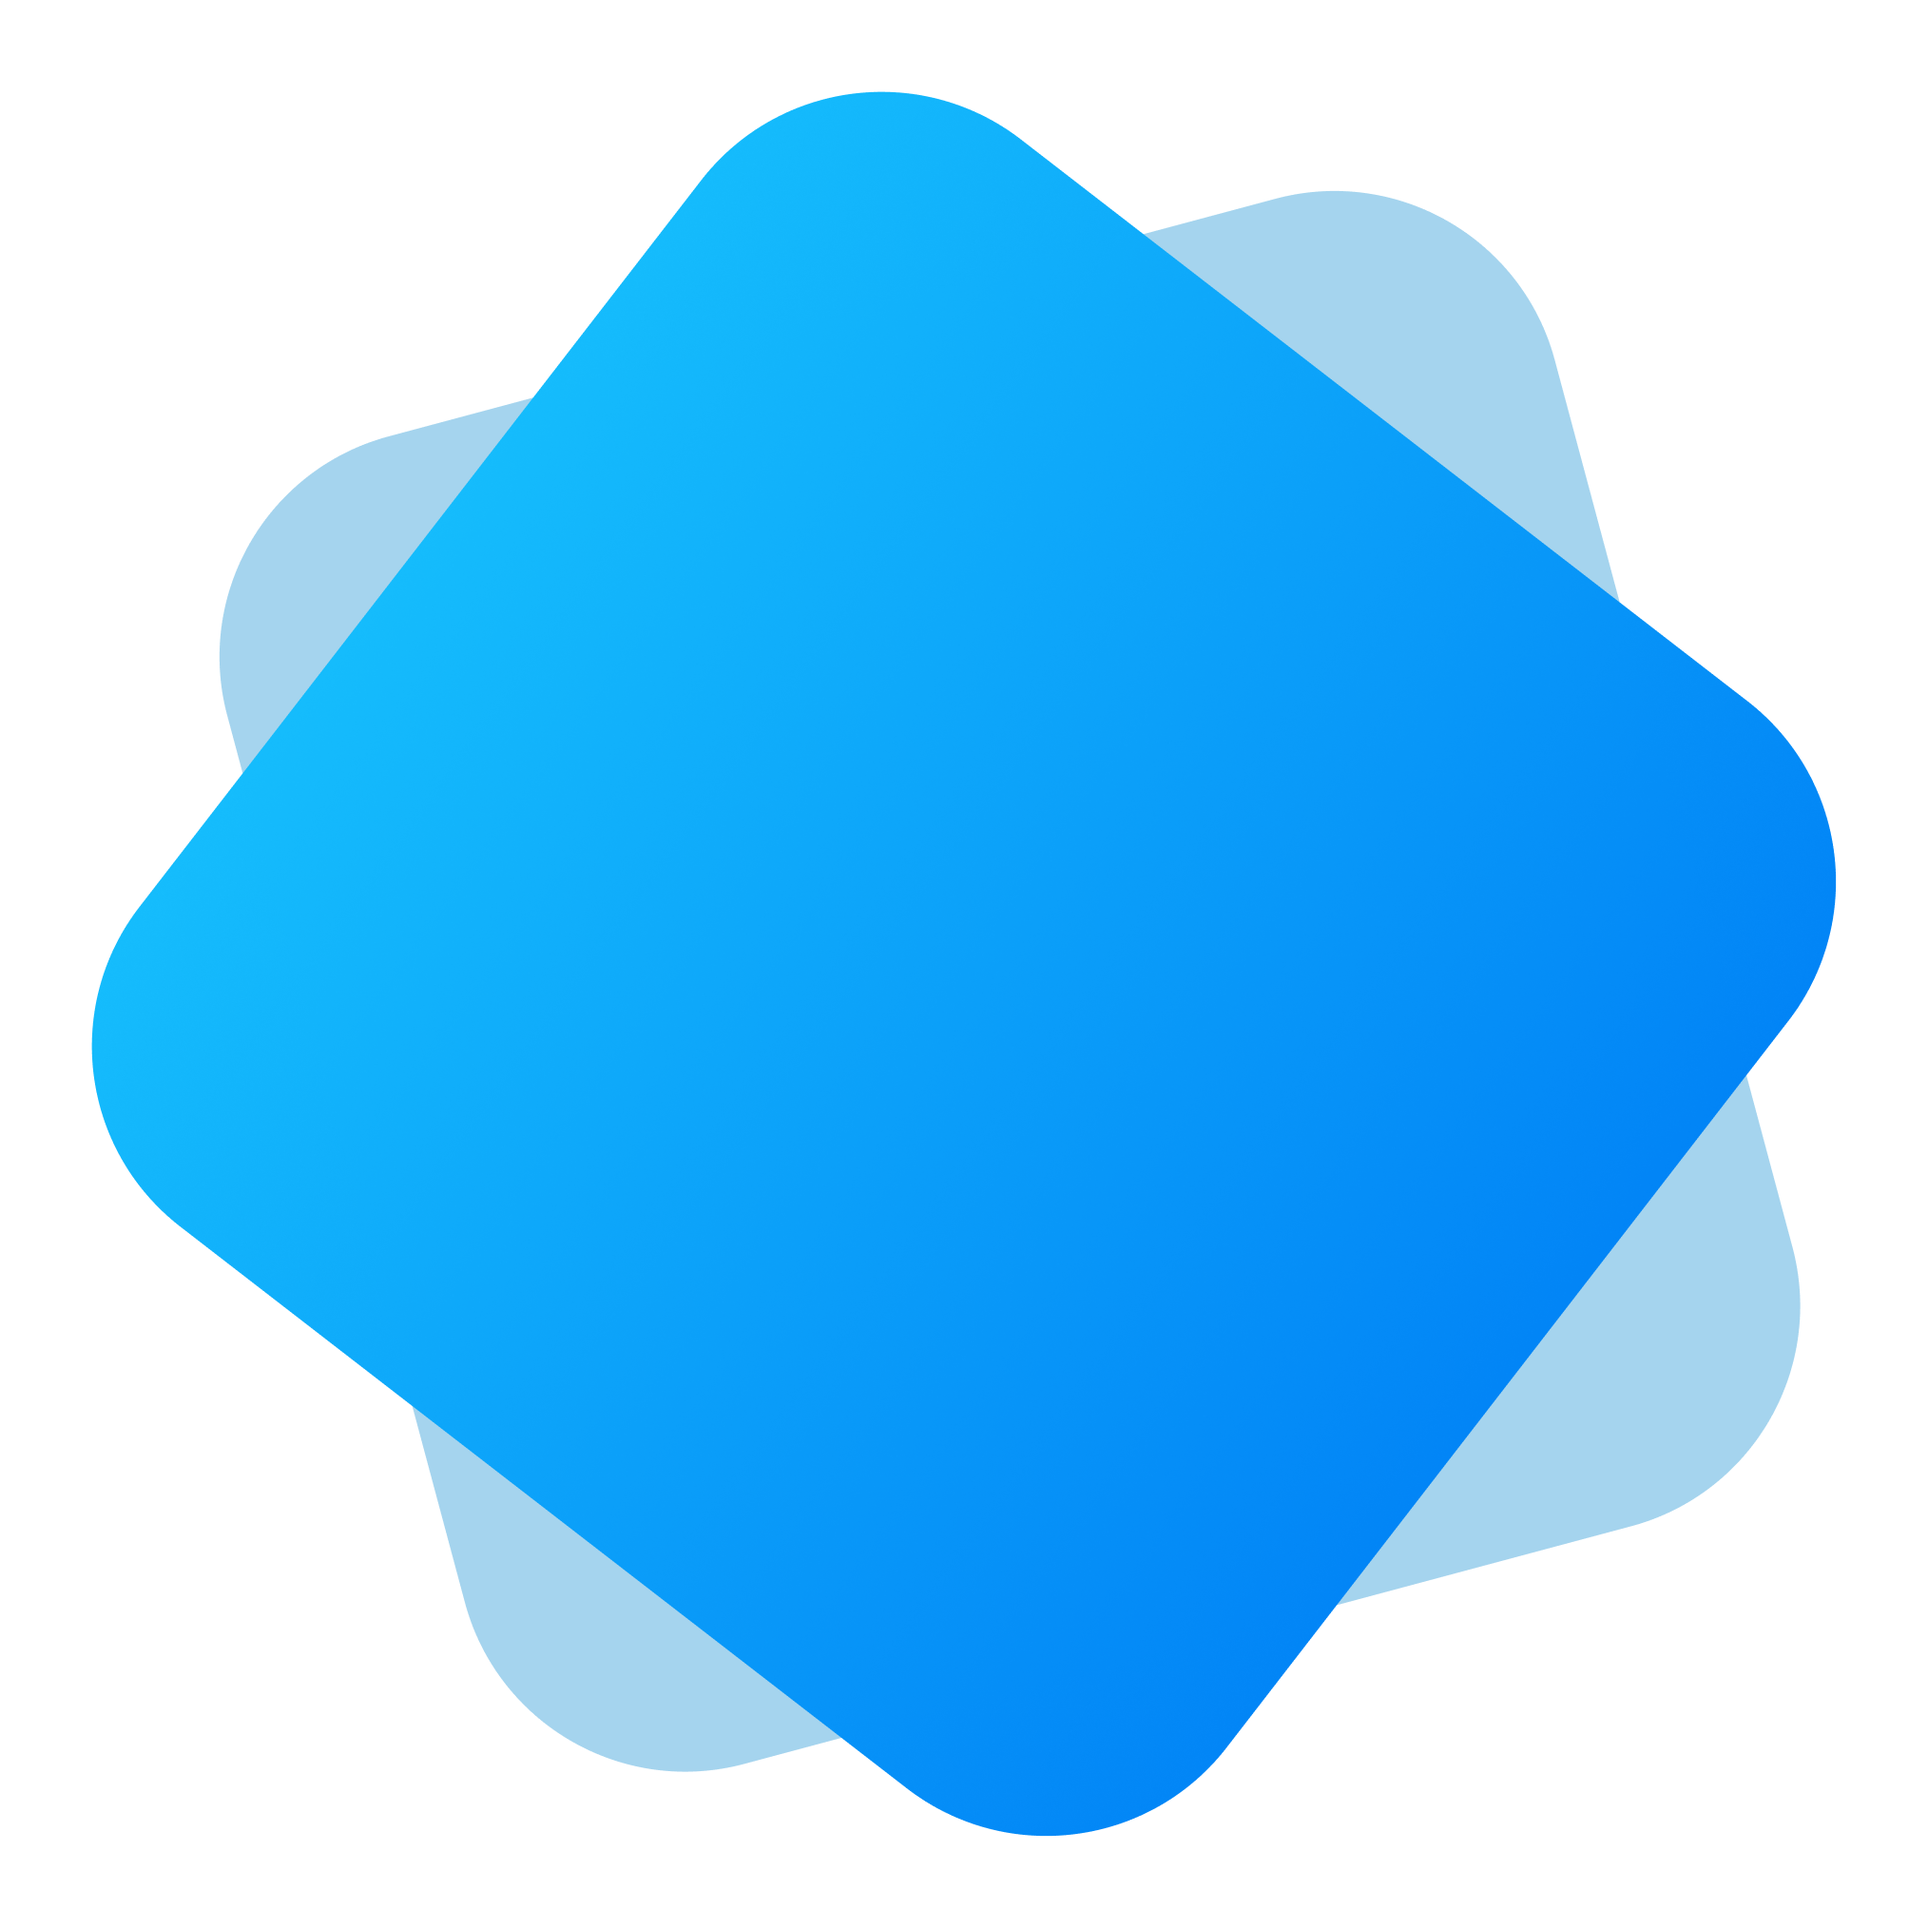
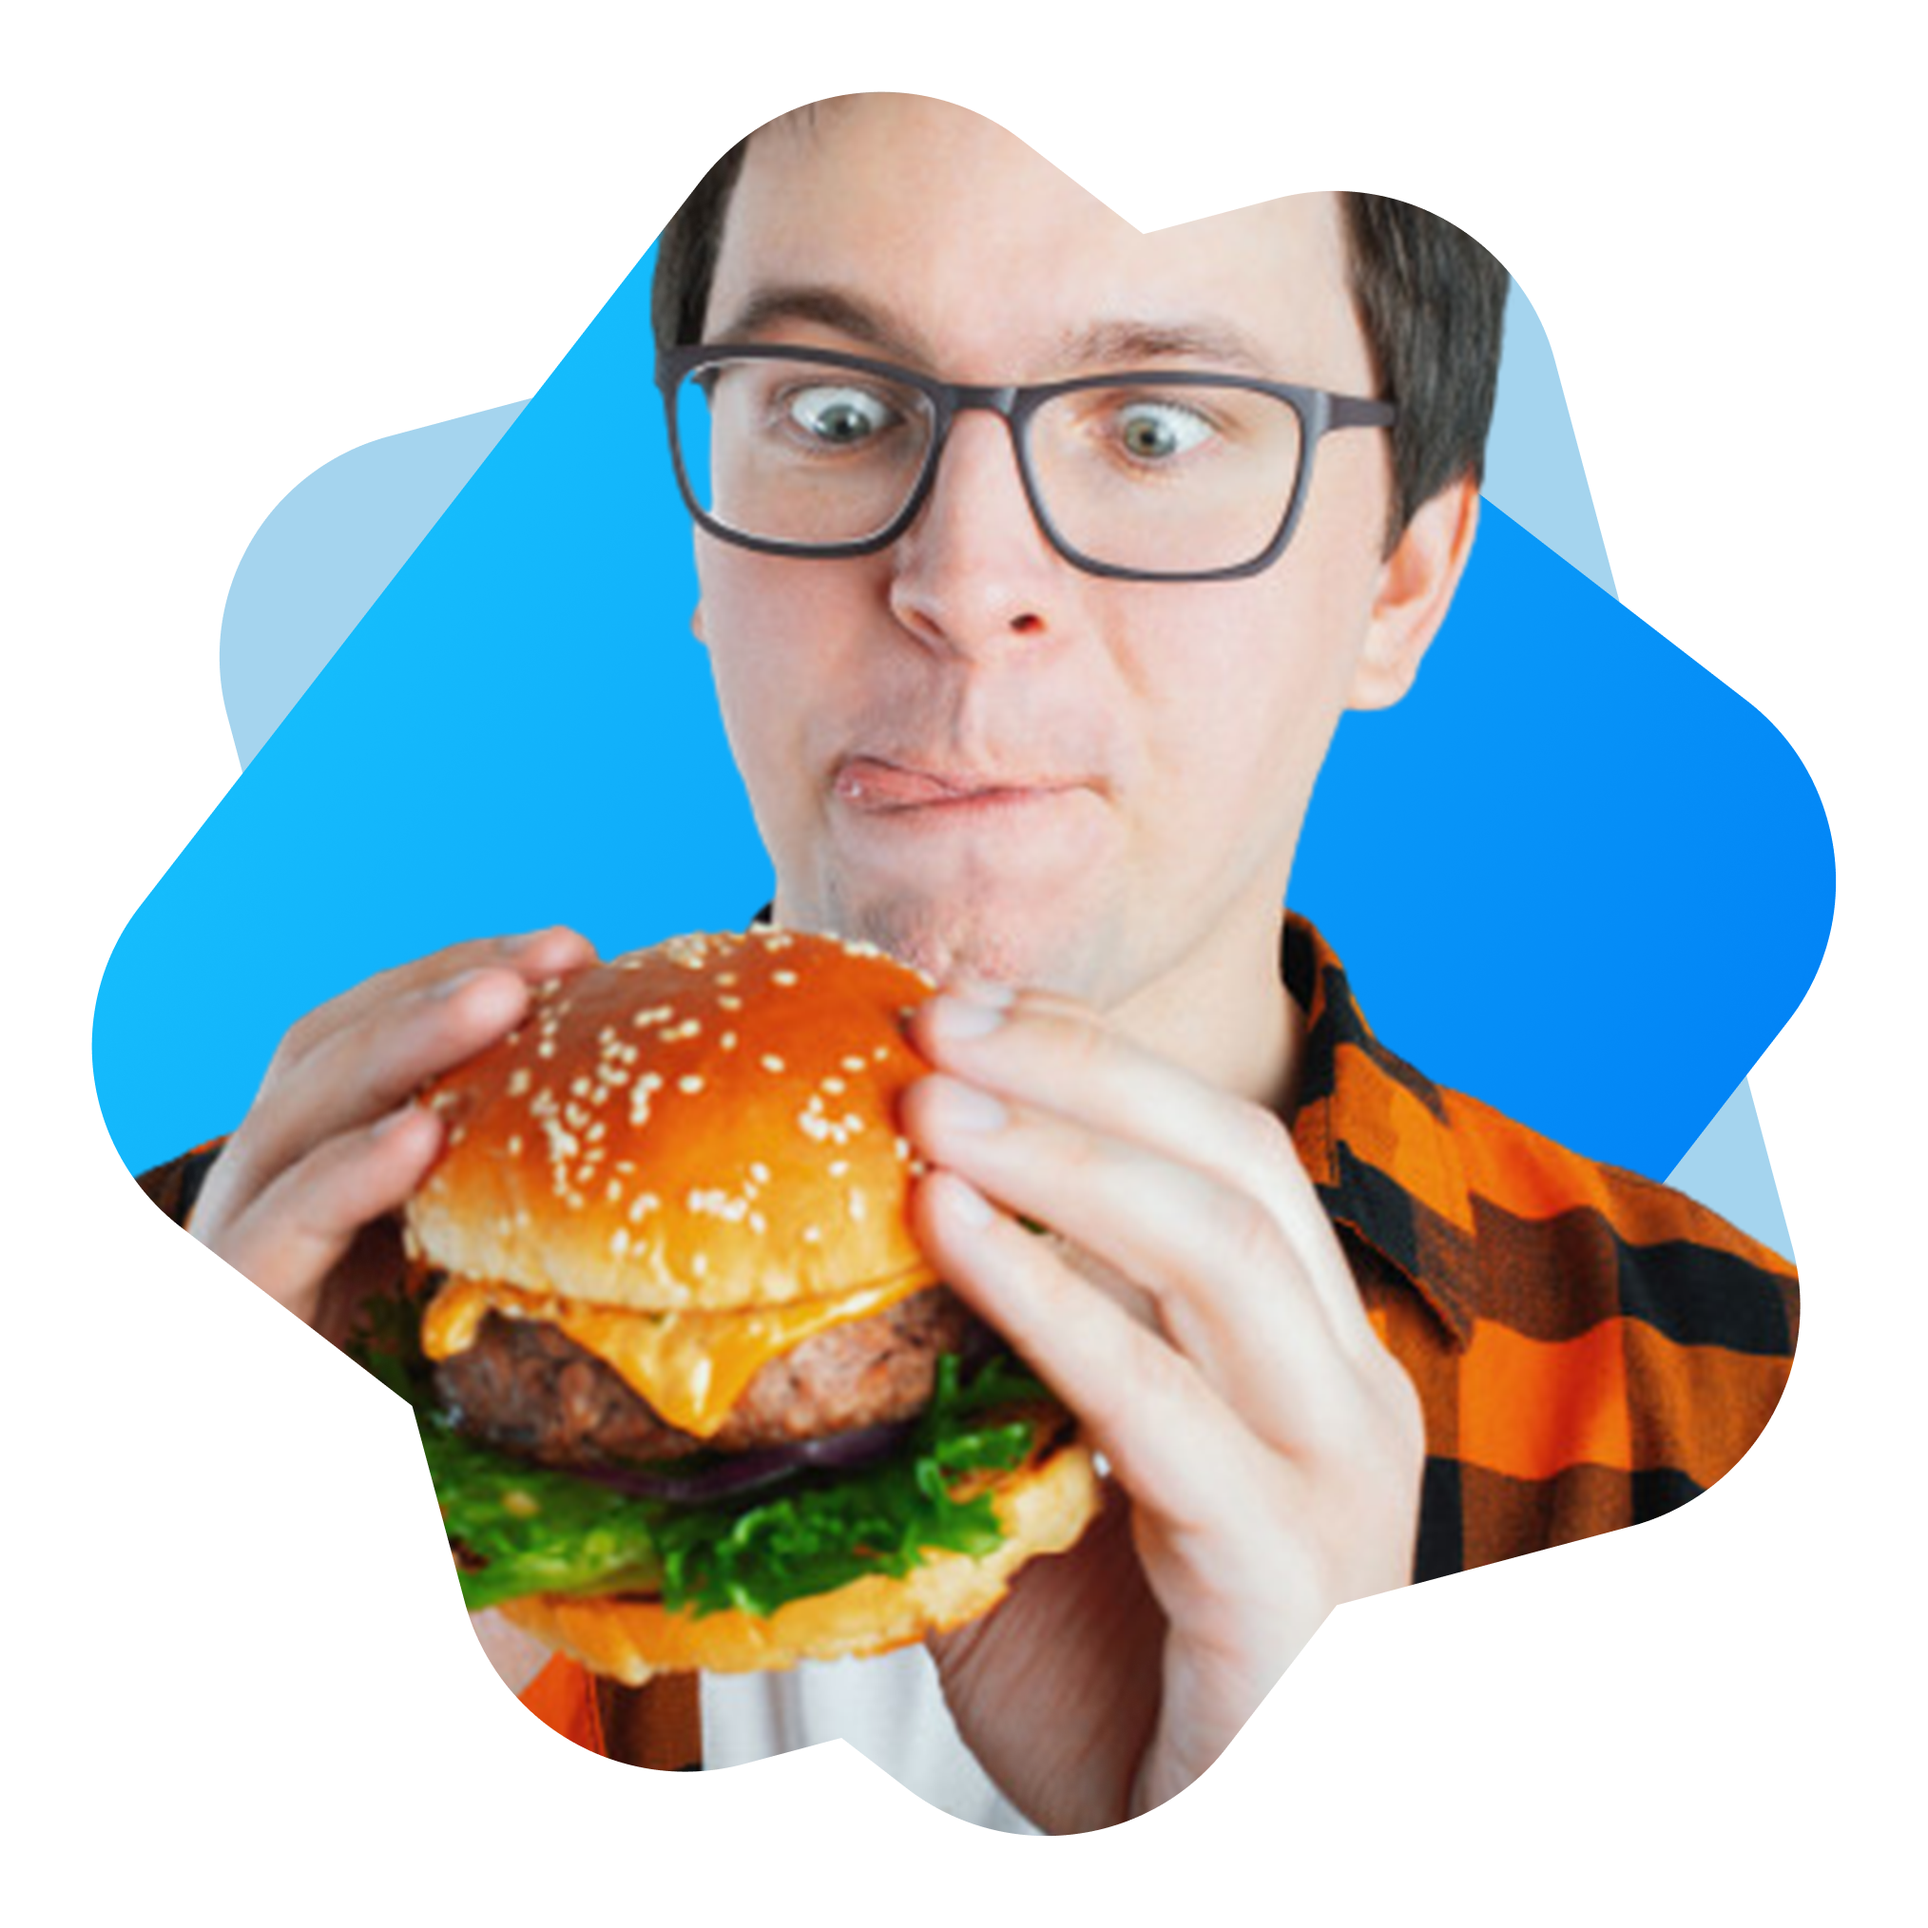
new

diff --git a/index.html b/index.html
@@ -13,9 +13,9 @@
 
 </head>
 <body class="font">
-    <section>
+    <section class="s1-display">
         <div>
-            <div>
+            <div class="half">
                 <h1 class="h1-text"><span class="blue">Skip</span> The Diet,</h1>
                 <h1 class="h1-text">Just Eat Healthy</h1>
                 <h1 class="h1-text">With Food Network</h1>
@@ -25,8 +25,8 @@
                 </p>
                 <a class="button" href="">Order Food</a>
             </div>
-            <div>
-                <img src="" alt="">
+            <div class="half">
+                <img src="images/shapes/Group 8449.png" alt="">
             </div>
         </div>
     </section>

diff --git a/style.css b/style.css
@@ -1,11 +1,21 @@
 .font{
     font-family: 'Inter', sans-serif;
     color: rgb(34, 34, 34);
+    margin: 0;
 }
 .blue{
     color: #023e8a;
 }
 .h1-text{
-    font-size: 40px;
+    font-size: 60px;
     font-weight: 900;
+}
+.half{
+    padding: 20%;
+
+}
+.s1-display{
+    display: flex;
+    background-image: url(images/shapes/Frame\ 57.jpg);
+    background-repeat: no-repeat;
 }
